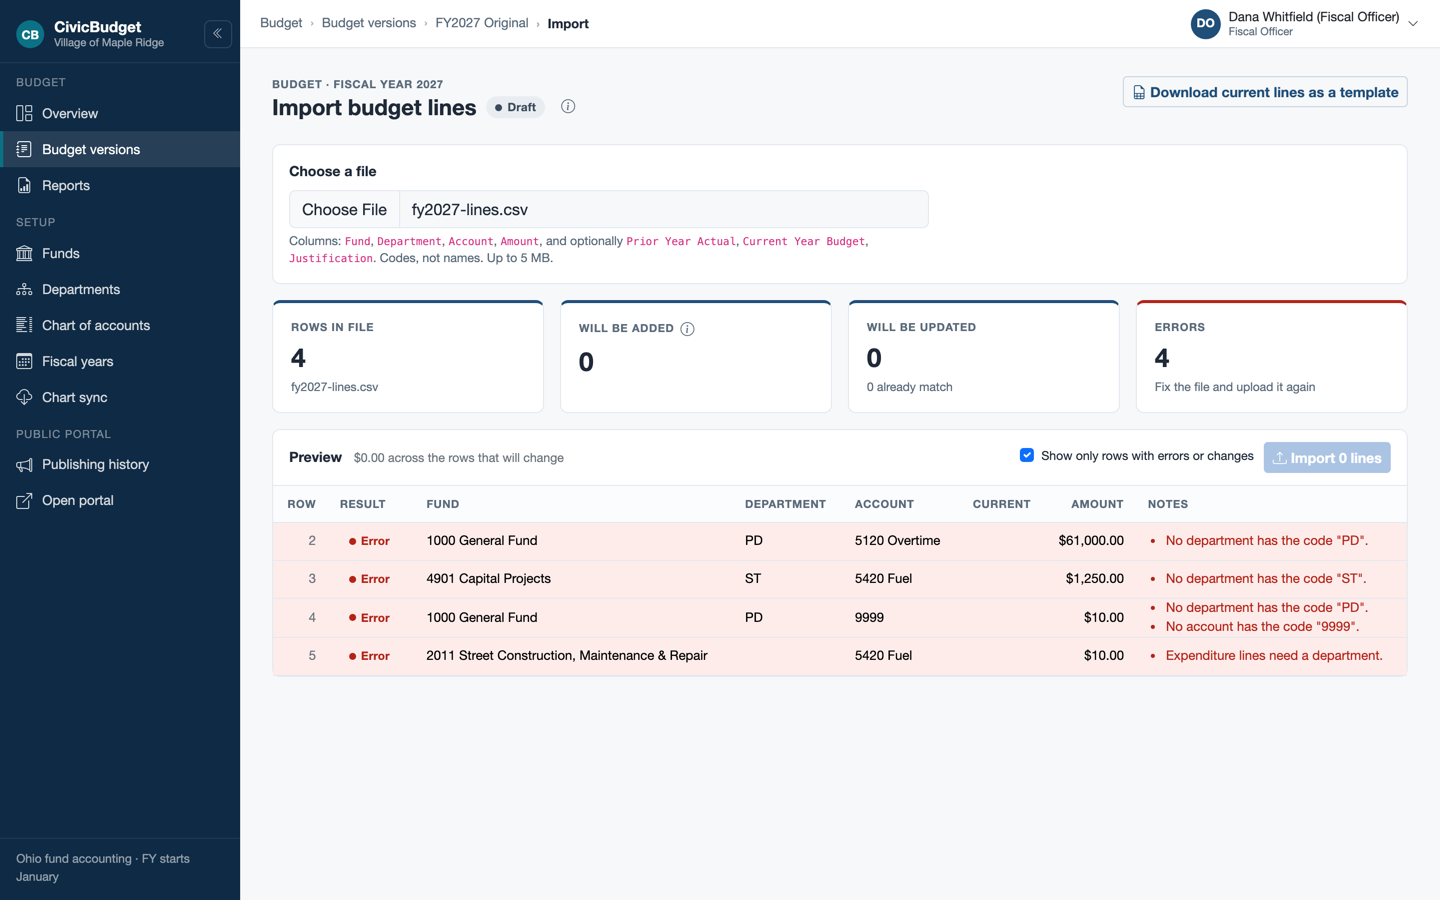
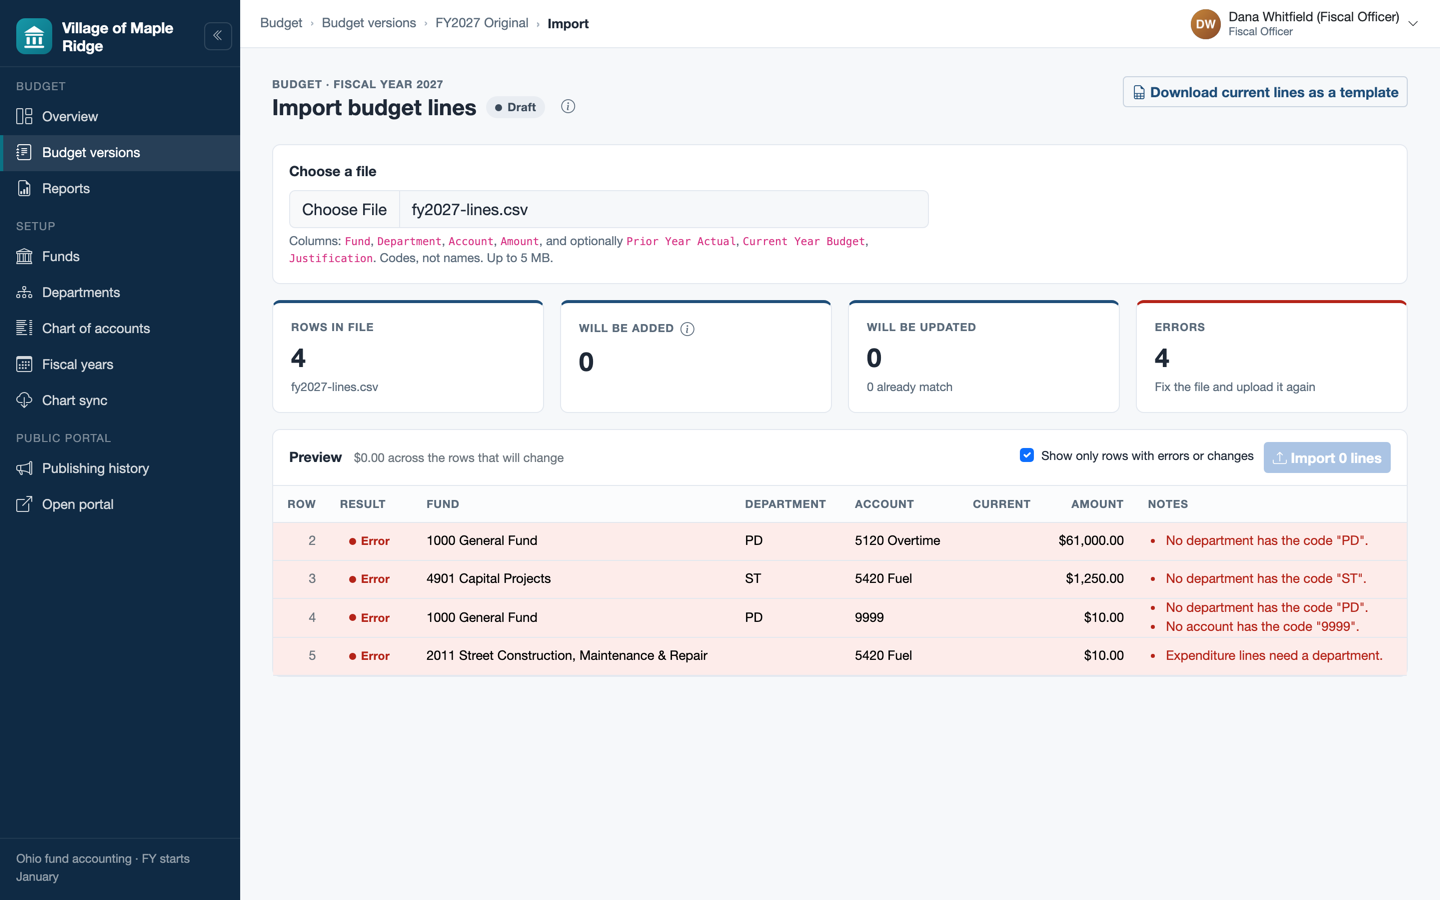
docs: ADR-0028, walkthrough 14, roadmap phase 10, changelog, interview prep, conventions; screenshots with the new brand

diff --git a/docs/walkthroughs/14-branding-and-profile-pictures.md b/docs/walkthroughs/14-branding-and-profile-pictures.md
@@ -1,0 +1,65 @@
+# Walkthrough 14 — Branding and profile pictures
+
+Phase 10, a small one after the v1.1 phases: the product gets a mark, the
+sidebar becomes the government's, and people get a face.
+
+## 1. The mark
+
+`Components/Common/Logo.razor` is an inline SVG: a civic building (pediment,
+three columns, base) in white on a teal tile with rounded corners. Inline
+rather than an `<img>` so it needs no request, scales crisply from 16 px to
+the sign-in page, and carries `role="img"` with an accessible label. The
+gradient id is suffixed per instance because several marks can share a
+page. `wwwroot/favicon.svg` is the same drawing.
+
+The admin sidebar shows the mark and the government's name in two bold
+lines (`.cb-brand-gov`), no product name: it is the fiscal officer's
+system, and the tenant is what they need to see. The public header and the
+sign-in page keep "CivicBudget" beside the mark because they are not inside
+any government yet. The collapsed rail keeps only the mark.
+
+## 2. Profile pictures
+
+The pieces, in the order a request passes through them:
+
+1. **Upload** (`Components/Admin/ProfilePicture.razor`, `/admin/profile-picture`,
+   reachable from the account menu and the account pages). An `InputFile`;
+   on change the page calls `RequestImageFileAsync("image/png", 256, 256)`,
+   which makes the browser decode the file and draw it at 256 px, then reads
+   the result into memory and hands the bytes to the service. Anything that
+   is not an image fails there, in the browser, with a friendly message.
+2. **Store** (`Infrastructure/Identity/UserAvatarService.cs`). Type and size
+   are checked (`UserAvatar.MaxBytes`); the bytes go to `UserAvatars`, one row
+   per user, and `ApplicationUser.AvatarUpdatedAtUtc` is set. That timestamp
+   is the version: lists read it from the user row and never touch the bytes.
+3. **Serve** (`IdentityEndpoints.cs`, `GET /Account/Avatar/{userId}`).
+   Requires authentication; the service's read joins to `Users` on the
+   current government, so a picture is visible only inside the tenant. The
+   response is cached privately for a year: the URL includes the version, so
+   a new upload is a new URL.
+4. **Show** (`Components/Common/Avatar.razor`). One component decides
+   picture or initials. Callers that already know the version (the user
+   list's `UserSummaryDto.AvatarVersion`) pass it; the top bar and the
+   timelines ask `IUserAvatarService.GetVersionAsync`, cached per circuit,
+   and subscribe to `Changed` so an upload updates the top bar in place.
+   `Display.Initials` replaced four private copies of the same helper.
+
+Administrators can remove a user's picture from the edit page (the
+moderation need); nobody uploads for someone else.
+
+## 3. Quieter audit trail
+
+The department round (Phase 9d) records "Police submitted its budget
+request" as a named event and, through the interceptor, also recorded the
+submitted-by id and timestamps as field changes. `[NotAudited]` on those
+properties tells `AuditInterceptor.IsOptedOut` to skip them; Status,
+Narrative, and the return note are still audited field by field, and
+`DepartmentRequestServiceTests` asserts both halves.
+
+## 4. Things to read
+
+1. `Components/Common/Logo.razor` and the `.cb-brand-gov` rule in `app.css`
+2. `Components/Admin/ProfilePicture.razor` (the browser-side resize)
+3. `Infrastructure/Identity/UserAvatarService.cs` and the endpoint in `IdentityEndpoints.cs`
+4. `Components/Common/Avatar.razor`
+5. `tests/CivicBudget.IntegrationTests/UserAvatarServiceTests.cs`, ADR-0028

diff --git a/docs/DECISIONS.md b/docs/DECISIONS.md
@@ -276,6 +276,43 @@ a default, so callers that do not know about submissions keep working. Tests: do
 end to end with the seeded mid-round FY2027 (`DepartmentRequestServiceTests`), the published
 narrative (`SnapshotQueryServiceTests`), and the pages (`DepartmentPagesTests`).
 
+## ADR-0028 — Profile pictures are resized by the browser, stored in SQL Server, and served through a versioned URL
+**Date:** 2026-09-20 · **Status:** Accepted
+
+**Context.** Users want a picture instead of initials in the account circle. The app has no blob
+storage (ADR-0008: deploy-ready, no account), and adding an image library to resize on the
+server means a native dependency and a licensing decision (ImageSharp's split license,
+SkiaSharp's size) for a feature that handles one small image per user.
+
+**Decision.**
+- **The browser resizes.** Blazor's `IBrowserFile.RequestImageFileAsync("image/png", 256, 256)`
+  draws the chosen file onto a canvas and hands back a PNG no larger than 256 px. The server
+  checks only content type and size (`UserAvatar.MaxBytes`, 512 KB); it never decodes an image.
+- **Bytes live in a `UserAvatars` table**, one row per user, separate from `AspNetUsers` so a
+  user list never reads image data. `ApplicationUser.AvatarUpdatedAtUtc` says whether a
+  picture exists and doubles as the version.
+- **A versioned URL with a long private cache.** `/Account/Avatar/{userId}?v={ticks}` returns
+  the bytes with `Cache-Control: private, max-age=31536000, immutable`; a new upload changes the
+  URL, so nothing is ever stale and nothing is re-fetched. The endpoint requires authentication
+  and the service joins to `Users` on the current government, the same scoping rule as every
+  Identity read (ADR-0015).
+- **One `Avatar` component** decides picture-or-initials. Lists pass the version from their
+  DTO; the top bar and timelines ask `IUserAvatarService.GetVersionAsync`, which caches per
+  scope (one circuit) and raises `Changed` after an upload so the top bar updates in place.
+- **Users upload their own; administrators only remove.** Removing is the moderation need; an
+  administrator uploading someone else's face is not.
+
+**Alternatives.** S3 or blob storage (the right answer at scale, and a one-class change behind
+`IUserAvatarService` when there is an account); server-side resizing (a package and a native
+dependency for one feature); a data URL in a claim (bloats every request's cookie); Gravatar
+(sends users' emails to a third party from a government system).
+
+**Consequences.** One migration, no package. A 256 px PNG is 30 to 200 KB; a thousand users
+is under 200 MB in the database, acceptable for a village or county and easy to move later.
+The same phase adds `[NotAudited]` for properties whose change is already a named audit event,
+because the department round (ADR-0027) had started writing ids and timestamps into the
+activity feed.
+
 ## Packages
 
 Every NuGet package and why. Add a row when adding a package.

diff --git a/docs/INTERVIEW-PREP.md b/docs/INTERVIEW-PREP.md
@@ -936,3 +936,33 @@ against a stand-in and isolated it to one class). Whether the middle
 segment is per government or per fund (I made it per government). Whether
 a department's narrative should be public at all (I publish it, because
 budget books do, but that is a policy question for the fiscal officer).
+
+## Phase 10 — Branding and profile pictures
+
+### Q: How do profile pictures work without an image library or blob storage?
+**A:** The browser does the resizing. Blazor's `RequestImageFileAsync` draws
+the chosen file onto a canvas at 256 px and gives me a PNG; the server checks
+type and size and stores the bytes in their own table, separate from the
+user row so lists never load images. The image is served from a URL that
+carries the upload time as a version, with a year-long private cache: a new
+upload is a new URL, so nothing is stale and nothing is re-fetched. The
+endpoint requires sign-in and the read joins to the user's government, the
+same rule as every Identity read. When there is an AWS account, S3 is a
+one-class change behind `IUserAvatarService`.
+**Look at:** `ProfilePicture.razor`, `UserAvatarService.cs`, the `/Account/Avatar/{id}` endpoint in `IdentityEndpoints.cs`, ADR-0028.
+
+### Q: How does the top bar update after an upload without a reload?
+**A:** The scoped service caches versions per circuit and raises `Changed`
+after a set or remove; every `Avatar` component that asked the service for
+its version subscribes and re-queries. Lists that already carry the version
+in their DTO do not subscribe; they just render.
+**Look at:** `Components/Common/Avatar.razor`.
+
+### Q: Why is there a `[NotAudited]` attribute now?
+**A:** Because the department round writes a named event ("Police submitted
+its budget request") and, until this phase, the interceptor also wrote
+"changed Submitted by user id: seed → c199…" and a raw timestamp. Same fact
+twice, one of them unreadable. The attribute opts a property out when a
+named event already records the change; Status, Narrative, and the return
+note are still audited field by field.
+**Look at:** `Domain/Common/AuditedAttribute.cs`, `AuditInterceptor.IsOptedOut`.

diff --git a/CLAUDE.md b/CLAUDE.md
@@ -71,7 +71,8 @@ Actions · AWS CDK (C#) deploy-ready (no account — see ADR-0008).
 - Import/reports: `ImportAnalyzer` and `ReportBuilder` are pure; keep rules there and tests in Application.Tests. Exports go through `ExportTable` + `ISpreadsheetExporter`; add endpoints to `AdminExportEndpoints` behind a policy.
 - Portal pages call `ISnapshotQueryService` only; shared pieces live in `Components/Portal/Common` (`Breakdown`, `PortalKpi`, `PortalCrumbs`, `PortalNotFound`, `MoneyShort`). Styles are the `.pt-*` section of `app.css`.
 - UI: use `PageHeader` (sets breadcrumbs), `StatusPill`, `KpiCard`, `ConfirmDialog`, `RowMenu`, `EmptyState`, `SkeletonRows`, `ToastService`; grids use `table.cb-grid` inside `.cb-grid-wrap` (QuickGrid with `Theme="bootstrap"`). Tokens live in `wwwroot/app.css`; see `docs/design/DESIGN-BRIEF.md`. Never `window.confirm`.
-- Mark financial entities `[Audited]`; the interceptor does the rest. Use `AuditEntry.Event(...)` for named actions.
+- Mark financial entities `[Audited]`; the interceptor does the rest. Use `AuditEntry.Event(...)` for named actions, and `[NotAudited]` on a property whose change that event already describes.
+- People and brand: render a person with `<Avatar UserId Name [Version] [Size]>` (never hand-rolled initials; `Display.Initials` is the one helper) and the mark with `<Logo Size>`; the sidebar brand is the government's name, not the product's.
 - Domain invariants throw `DomainException`; user-input problems return a
   `Result` with errors.
 - Naming: `*Service` (Application), `*Repository` only if it earns its keep,

diff --git a/CHANGELOG.md b/CHANGELOG.md
@@ -5,6 +5,15 @@ All notable changes to CivicBudget. Format loosely follows
 
 ## [Unreleased]
 
+## Phase 10 — 2026-09-20 (v1.1)
+### Added
+- A CivicBudget logo mark (civic building on a teal tile) as inline SVG and favicon.
+- Profile pictures: upload on **Profile picture** (account menu), resized in the browser to 256 px, stored in `UserAvatars`, shown in the top bar, user list, recent activity, and line history; administrators can remove a user's picture. Migration `AddUserAvatars`.
+- `[NotAudited]` for entity properties whose change is already a named audit event.
+### Changed
+- The admin sidebar shows the government's name beside the mark instead of the product name.
+- Department request submit/return no longer write id and timestamp field changes to the activity feed.
+
 ## Phase 9d — 2026-09-19 (v1.1)
 ### Added
 - Department-first budgeting: sign-in lands in the app, and a department user's home is **My department**, which opens their department for the budget in progress (or a board of their departments).

diff --git a/ROADMAP.md b/ROADMAP.md
@@ -170,3 +170,11 @@ UAN village or `101-110-5100` for a county), and permissions follow the departme
 
 Order: 9a → 9b → 9c → 9d. Each is a PR with the usual report; approve before the next starts.
 
+## Phase 10 — Branding and profile pictures  `phase-10-branding-and-avatars`
+- [x] CivicBudget logo mark (inline SVG `Logo` component, matching favicon) in place of the "CB" seal
+- [x] Sidebar brand is the government's name; the product name stays on the public header and sign-in
+- [x] Profile pictures: browser-side resize, `UserAvatars` table, versioned image endpoint, `Avatar` component everywhere initials were shown, admin removal; ADR-0028
+- [x] `[NotAudited]` so submit/return bookkeeping fields stay out of the activity feed
+- [x] Tests (service scoping and permissions, components, audit opt-out); walkthrough 14; interview prep
+- [ ] Spencer approves Phase 10
+
